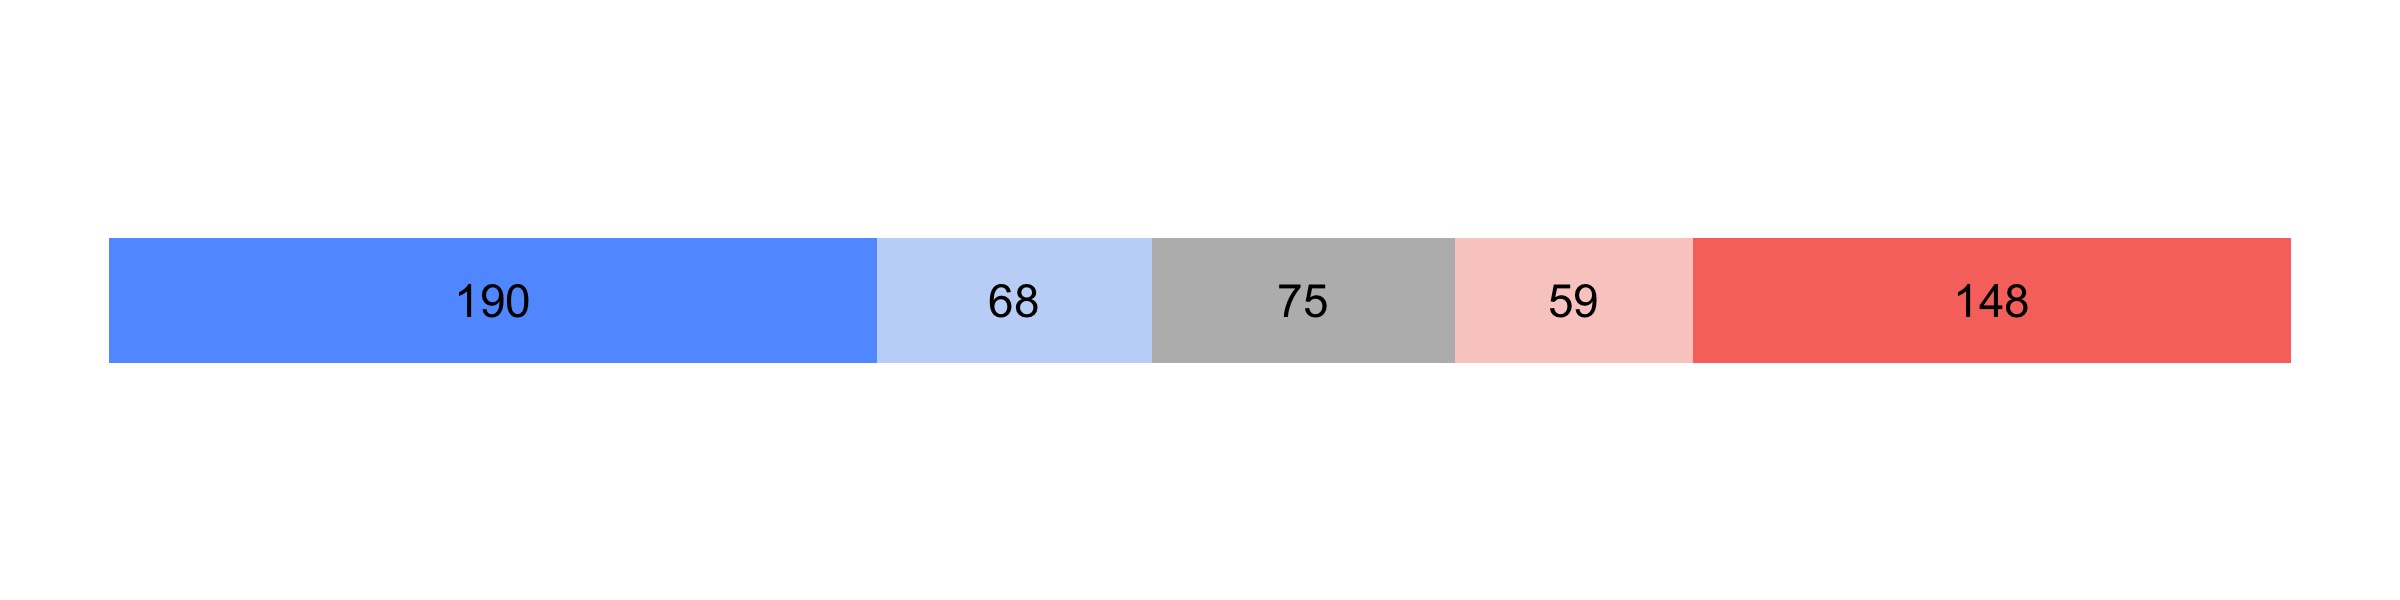
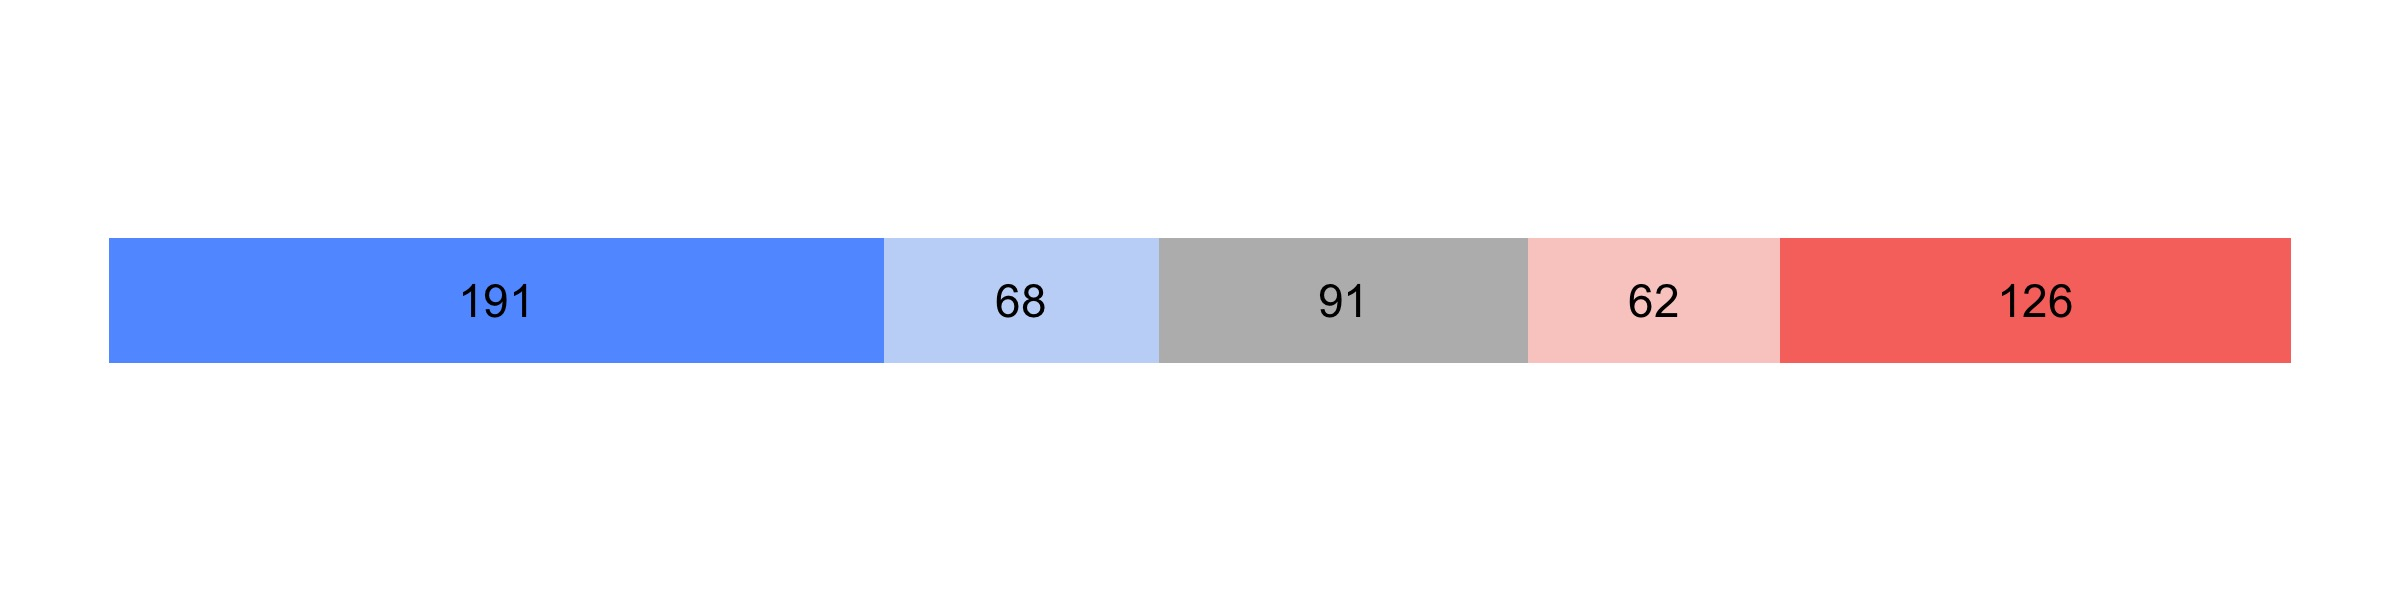
Fixed slightly incorrect count of electors

diff --git a/posts/blogfinal.md b/posts/blogfinal.md
@@ -28,11 +28,15 @@ By feeding our model Trump's most recent approval ratings, he and Biden's pollin
 
 ![](../figures/finalpredmap.jpg)
 
-Based on this map, the states that still may swing in the direction of either candidate are Florida, Georgia, North Carolina, Pennsylvania, Nevada, and Arizona. These states are very important in determining the outcome of the election. With 258 electoral votes certain or very likely to go towards Biden, he is just 12 votes short of winning the presidency. Trump, with 207 electoral votes likely secured, will have to win the majority of these states, particularly Florida and Pennsylvania, to turn the election in his favor. 
+Based on this map, Florida, Georgia, North Carolina, Pennsylvania, Nevada, and Arizona all could swing in the direction of either candidate. These states will be very important in determining the outcome of the election. With 259 electoral votes certain or very likely to go towards Biden, he is just 12 votes short of winning the presidency. Trump, with 188 electoral votes likely secured, will have to win the majority of these states, particularly Florida and Pennsylvania, to turn the election in his favor. 
 
 ![](../figures/finalelectoral.jpg)
 
-Although these swing states may go in either direction, I predict, based on my model, that Biden will win Florida, Pennsylvania, Nevada, and Arizona, and Trump will win Georgia and North Carolina. This would ultimately result in Biden winning the election, garnering 57.8% of electoral votes: 307 for Biden and 231 and Trump. 
+My model predicts that Biden will win Florida, Pennsylvania, Nevada, and Arizona, and Trump will win Georgia and North Carolina - all by very tight margins. This would ultimately result in Biden garnering 57% of electoral votes and winning the election. Incorporating these projections, this would be the map and electoral vote count of the election: 
+
+![](../figures/finalwinnermap.jpg)
+
+![](../figures/electoralwinner.jpg)
 
 ### Uncertainty
 
